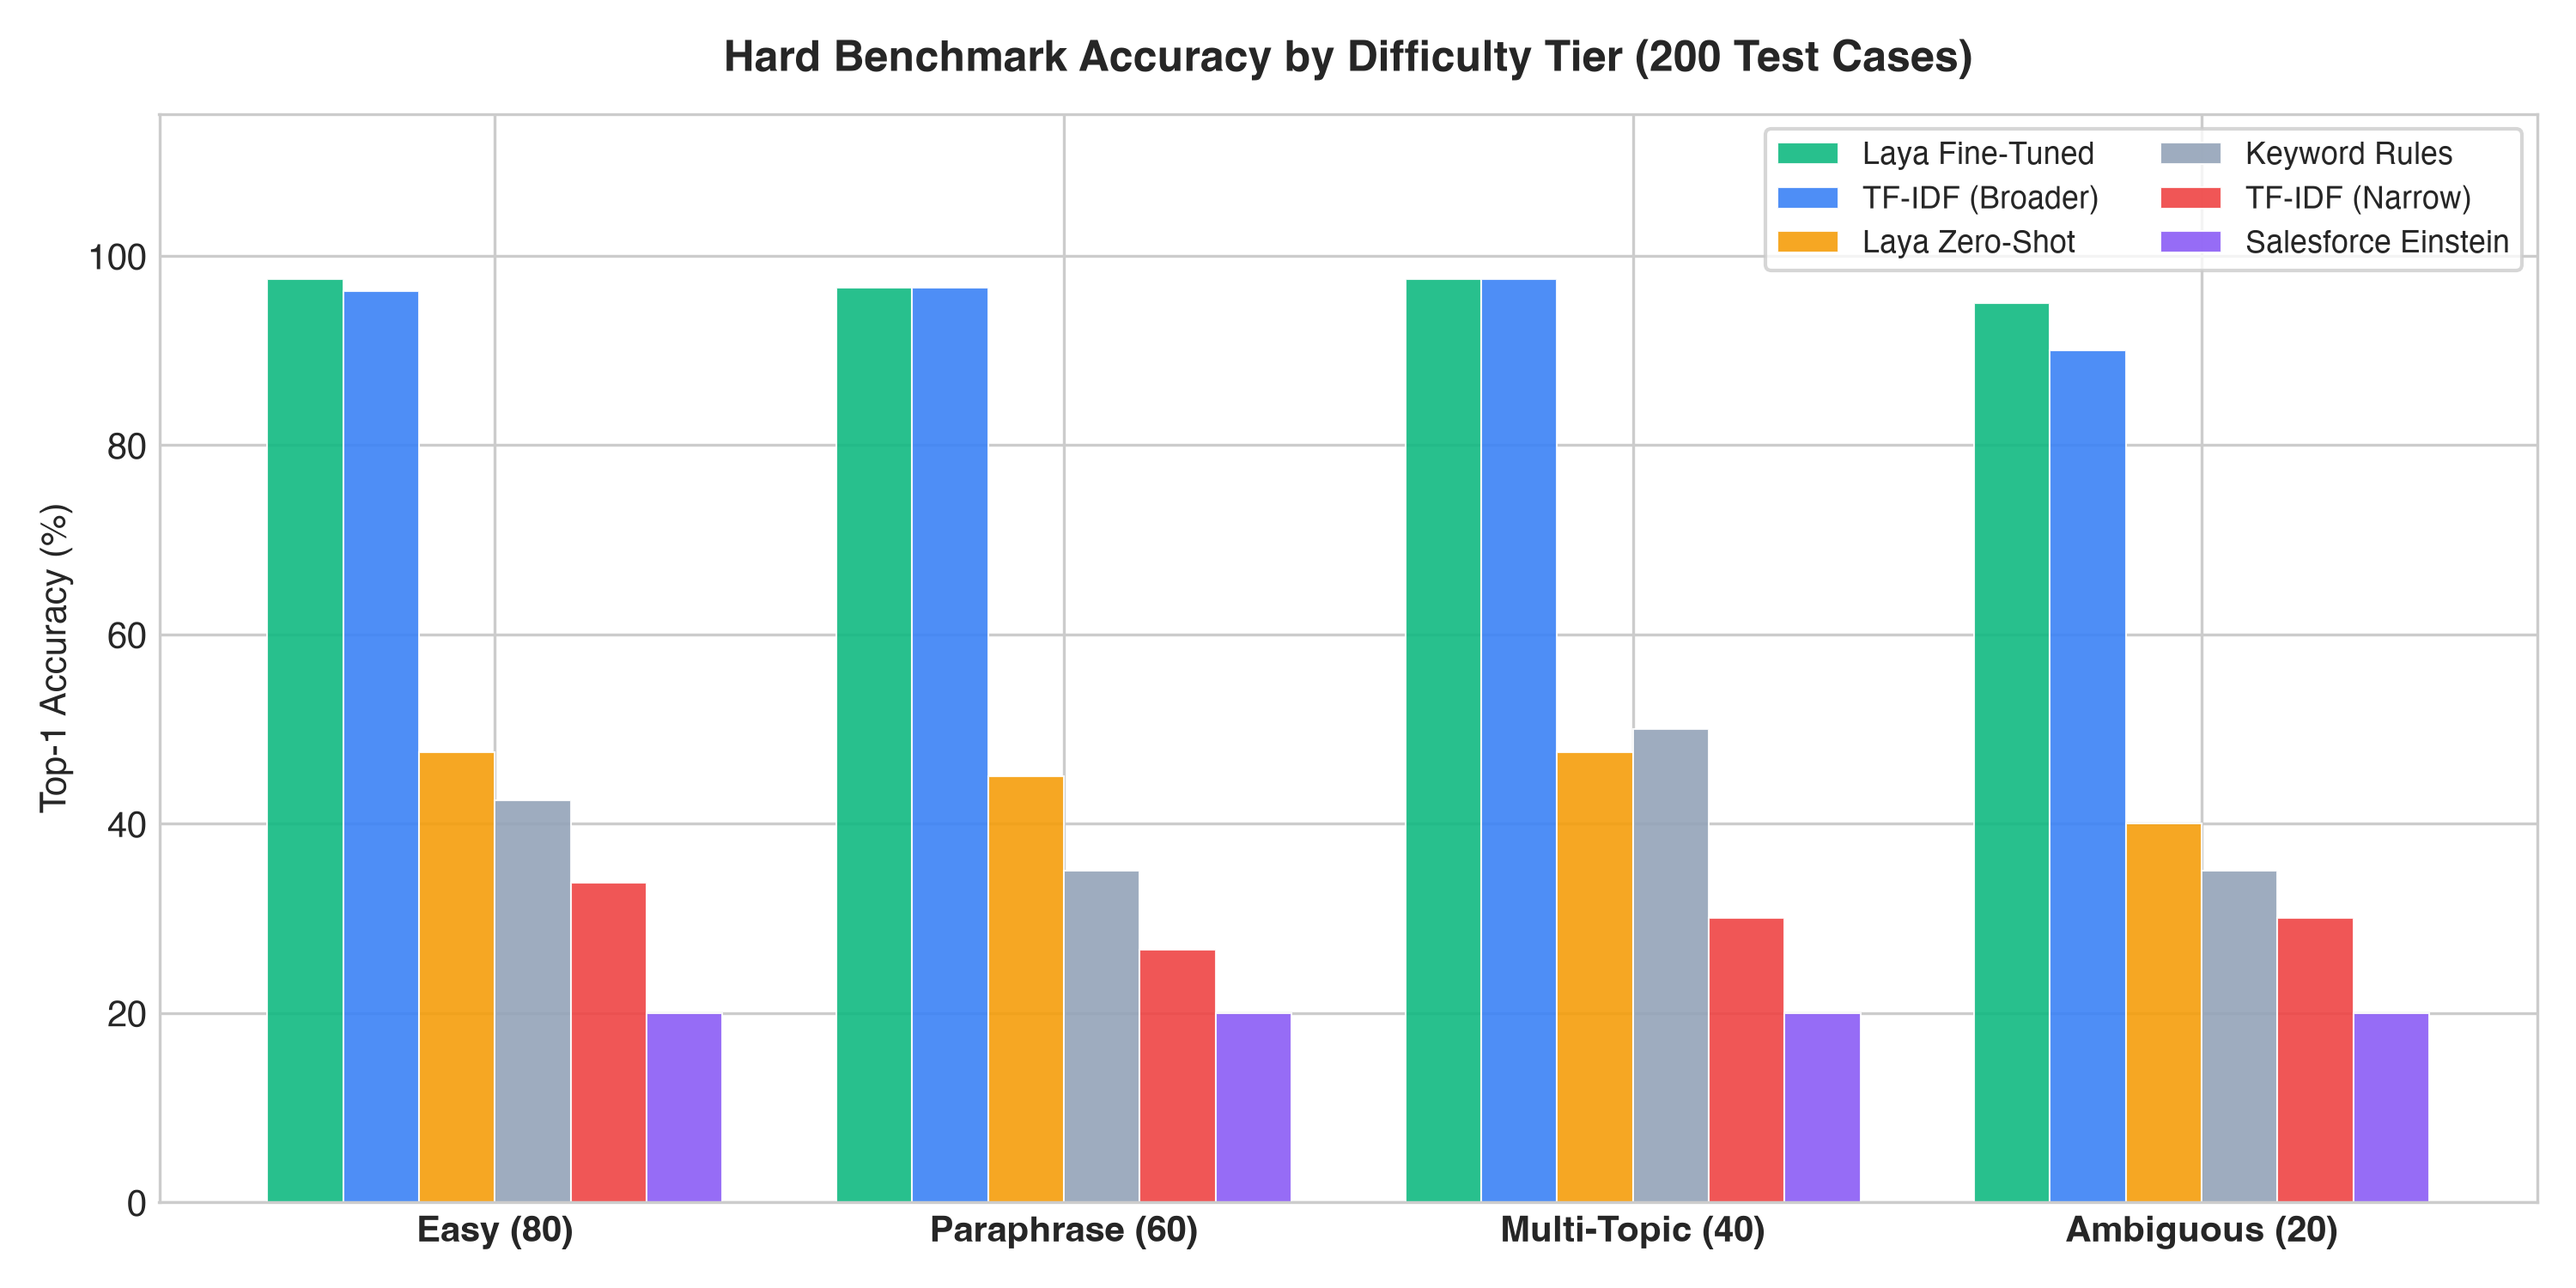
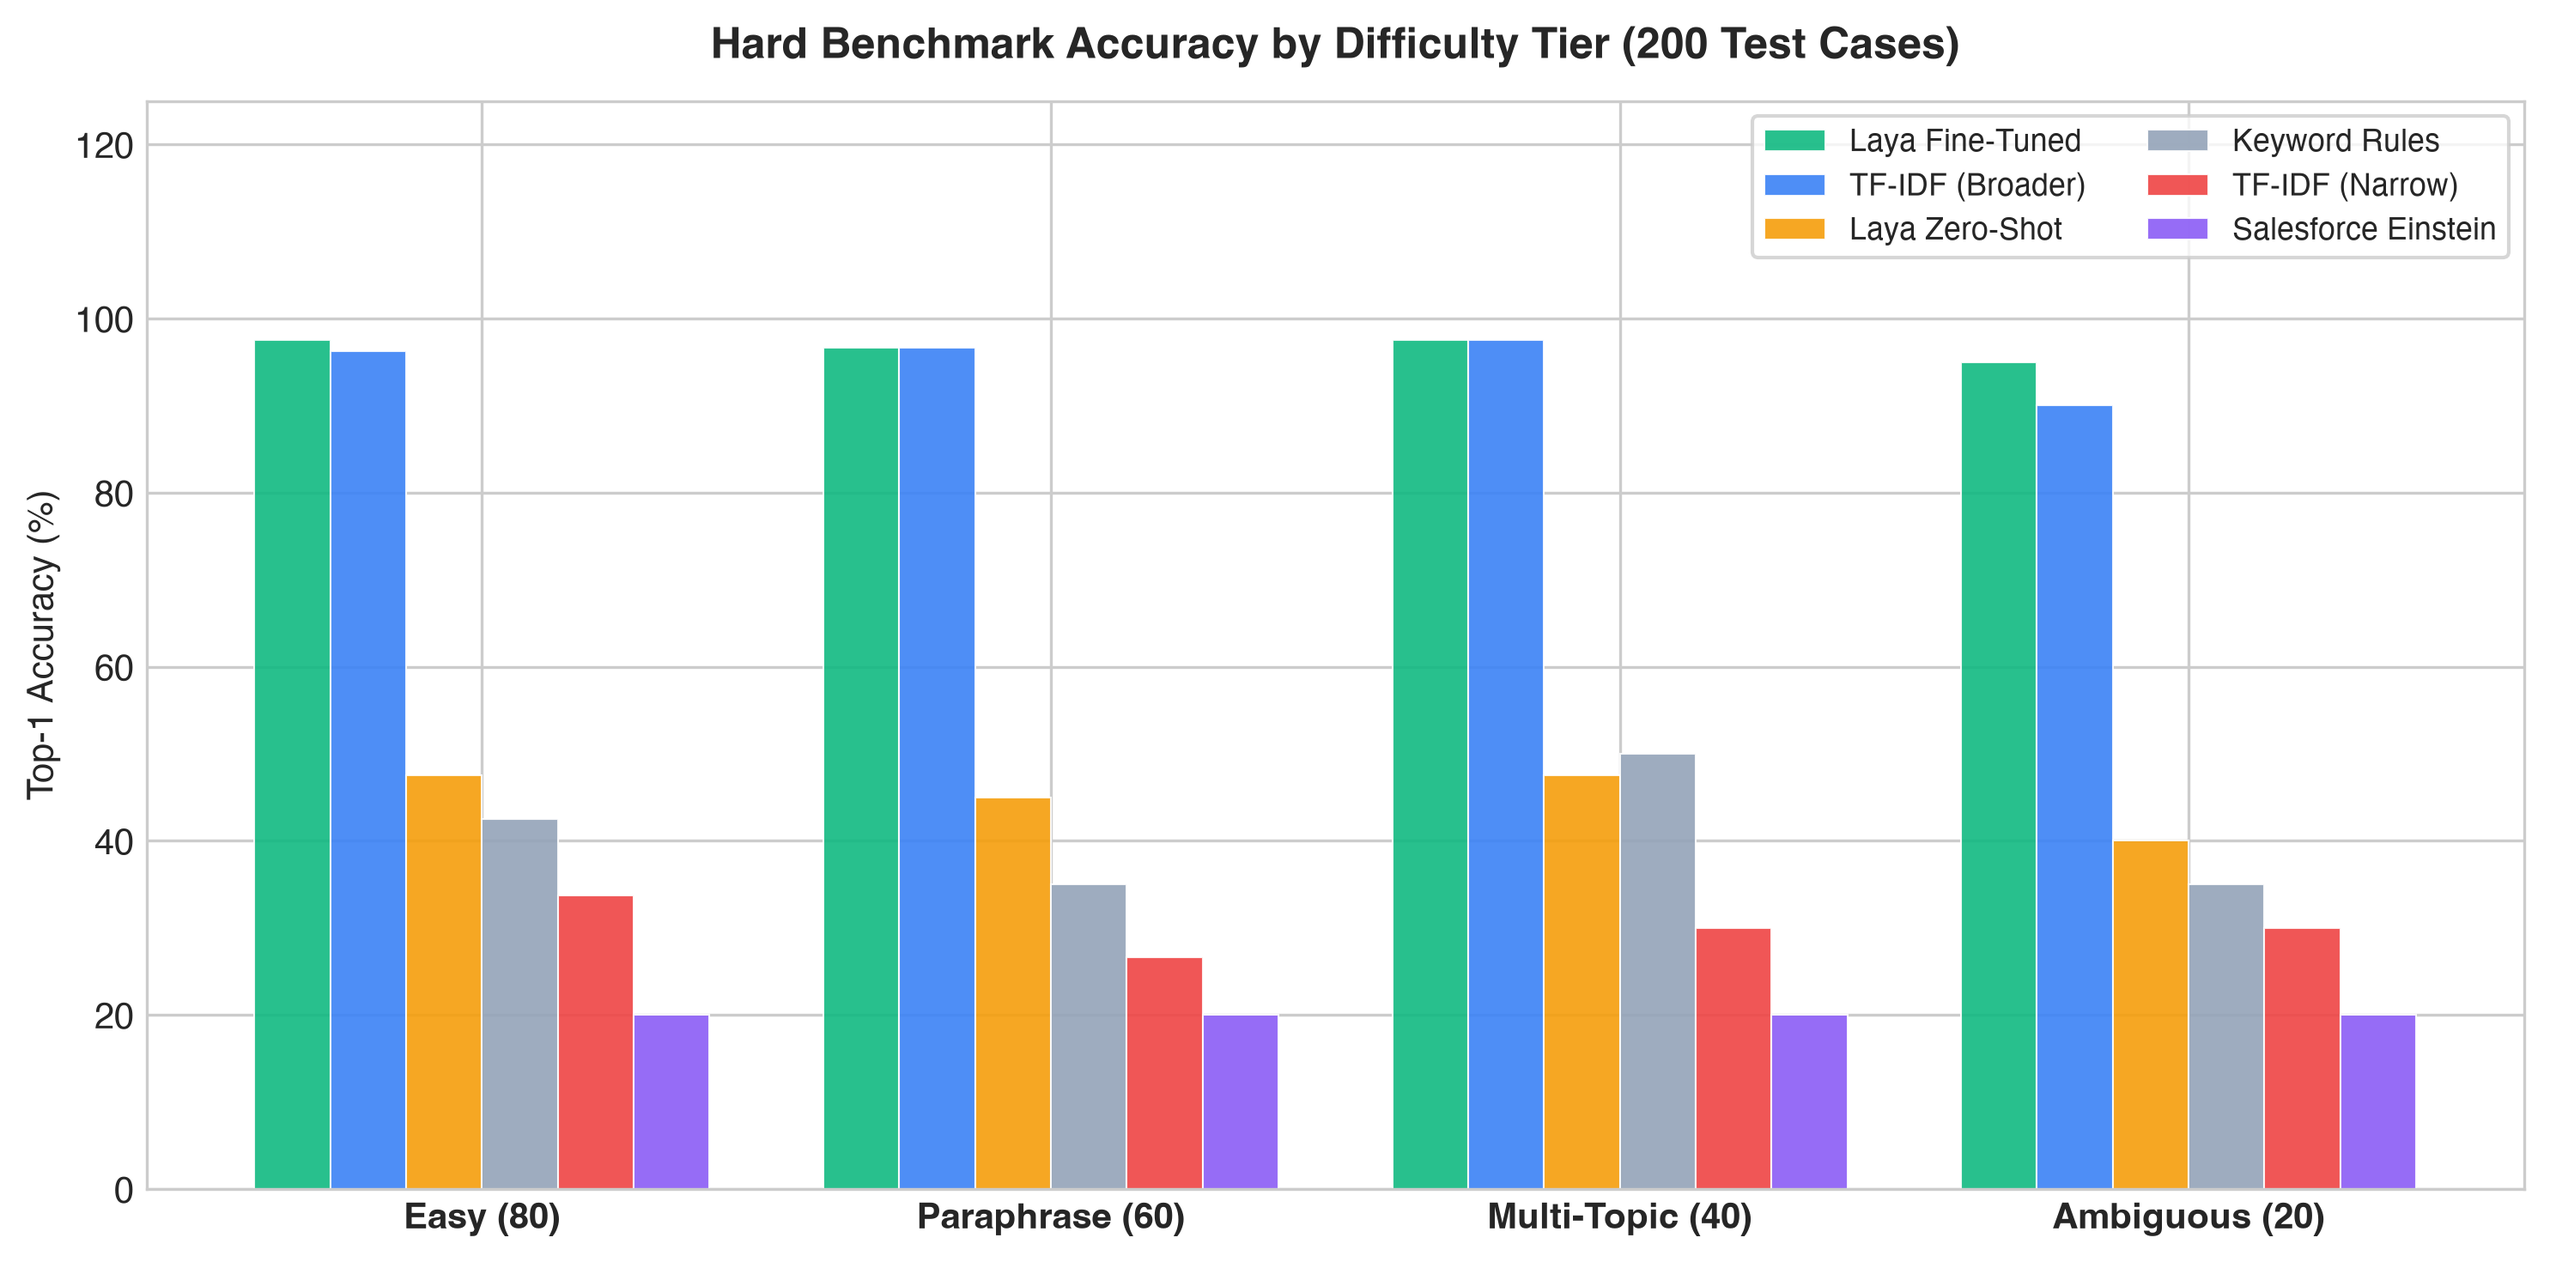
Update docs badge/lead, move routing chart legend outside axes, and write original summary to archive

diff --git a/docs/index.html b/docs/index.html
@@ -212,9 +212,9 @@
 <body>
   <div class="container">
     <header>
-      <div class="badge">1,000-Case Measured Benchmark</div>
+      <div class="badge">200-Case Hard Benchmark</div>
       <h1>Enterprise Support Case Classification</h1>
-      <p class="lead">An empirical, measured benchmark evaluating the real Laya foundation model (convaiinnovations/laya), TF-IDF + MLP baseline, and Heuristic Rules against production Salesforce Einstein Case Classification.</p>
+      <p class="lead">An empirical, measured benchmark evaluating the real Laya foundation model (convaiinnovations/laya), TF-IDF + MLP baseline, and keyword rules (built from the 800 training cases) against production Salesforce Einstein Case Classification.</p>
       <div class="cta-group">
         <a href="https://github.com/pchavali09/laya-case-routing-poc" class="btn btn-primary" id="btn-repo">View GitHub Repository</a>
       </div>

diff --git a/src/einstein_benchmark/run_full_benchmark.py b/src/einstein_benchmark/run_full_benchmark.py
@@ -12,7 +12,7 @@ Runs included:
      fitted calibration on held-out slice of 800, evaluated on test cases)
   3. Simple Local Baseline: TF-IDF (5,000 features, bigrams) + 2-layer MLP (hidden_dim=64,
      temperature-scaled, trained on 800 train cases, seed 2026)
-  4. Heuristic Rules Baseline: regex/keyword matching from src/rules.py (written for
+  4. Keyword Rules Baseline: regex/keyword matching from src/rules.py (written for
      initial synthetic POC schema, evaluated as-is)
   5. Real Salesforce Einstein Case Classification: from data/einstein_benchmark/einstein_predictions.csv
      (evaluated against actual Salesforce Einstein export)
@@ -364,12 +364,12 @@ def run_rules_baseline(test_df):
     median_lat = float(np.median(latencies))
     print(f"Rules Baseline: Top-1 Accuracy = {top1_acc*100:.2f}%, Mean Latency = {mean_lat:.3f}ms")
     return res_df, {
-        "name": "Heuristic Rules Baseline",
+        "name": "Keyword Rules Baseline",
         "top1_accuracy": round(float(top1_acc) * 100, 2),
         "mean_latency_ms": round(mean_lat, 3),
         "median_latency_ms": round(median_lat, 3),
         "dataset_written_for": "Initial 30-case synthetic POC keyword schema",
-        "artifact": "src/rules.py (regex keyword heuristics)"
+        "artifact": "src/rules.py (regex keyword rules)"
     }
 
 
@@ -495,12 +495,12 @@ def main():
         }
         df_rules = pd.read_csv(os.path.join(RESULTS_DIR, "rules_predictions.csv"))
         meta_rules = {
-            "name": "Heuristic Rules Baseline",
+            "name": "Keyword Rules Baseline",
             "top1_accuracy": round(df_rules["is_correct"].mean() * 100, 2),
             "mean_latency_ms": round(df_rules["latency_ms"].mean(), 3) if "latency_ms" in df_rules else 0.073,
             "median_latency_ms": round(df_rules["latency_ms"].median(), 3) if "latency_ms" in df_rules else 0.07,
             "dataset_written_for": "Initial 30-case synthetic POC keyword schema",
-            "artifact": "src/rules.py (regex keyword heuristics)"
+            "artifact": "src/rules.py (regex keyword rules)"
         }
         meta_einstein = evaluate_einstein(test_df)
     else:
@@ -541,7 +541,7 @@ def main():
     
     # Compile Summary Table
     summary_data = {
-        "benchmark_dataset": "Salesforce Einstein 1,000-Case Closed Benchmark (800 train, 200 test)",
+        "benchmark_dataset": "Salesforce Einstein Closed Benchmark (800 train, 200 test)",
         "test_size": len(test_df),
         "timestamp": time.strftime("%Y-%m-%d %H:%M:%S"),
         "hardware": "Apple M2 (MacBook Air), 8GB Unified Memory, MPS Backend",

diff --git a/src/plot_results.py b/src/plot_results.py
@@ -65,7 +65,7 @@ def plot_routing_simulation():
         ("TF-IDF + MLP (Narrow 800)", os.path.join(RESULTS_DIR, "predictions_tfidf_hard.csv"), "confidence", "predicted_department", "#dc2626", ":", "x"),
     ]
 
-    fig, ax = plt.subplots(figsize=(8.5, 4.8), dpi=300)
+    fig, ax = plt.subplots(figsize=(9.2, 4.8), dpi=300)
 
     for label, path, conf_col, pred_col, color, linestyle, marker in series_config:
         if not os.path.exists(path):
@@ -88,16 +88,16 @@ def plot_routing_simulation():
 
         ax.plot(pts_sampled["cov"], pts_sampled["acc"], label=label, color=color, linestyle=linestyle, marker=marker, linewidth=2, markersize=5)
 
-    ax.set_title("Confidence-Gated Routing: Coverage vs. Accuracy Trade-Off (Hard 200 Test Set)", fontsize=12, fontweight="bold", pad=12)
+    ax.set_title("Confidence-Gated Routing: Coverage vs. Accuracy Trade-Off (Hard 200 Test Set)", fontsize=11, fontweight="bold", pad=12)
     ax.set_xlabel("Cases Auto-Routed (out of 200 Blind Test Cases)", fontsize=10)
     ax.set_ylabel("Routing Accuracy Among Auto-Routed Cases (%)", fontsize=10)
     ax.set_ylim(25, 105)
     ax.set_xlim(45, 205)
-    ax.legend(frameon=True, facecolor="white", loc="lower left", fontsize=9)
+    ax.legend(frameon=True, facecolor="white", edgecolor="#cccccc", bbox_to_anchor=(1.02, 1), loc="upper left", fontsize=8.5)
     plt.tight_layout()
 
     out_path = os.path.join(RESULTS_DIR, "routing_simulation.png")
-    plt.savefig(out_path)
+    plt.savefig(out_path, bbox_inches="tight")
     plt.close()
     print(f"📊 Saved: {out_path}")
 
@@ -151,12 +151,12 @@ def plot_difficulty_breakdown():
     ax.set_ylabel("Top-1 Accuracy (%)", fontsize=10)
     ax.set_xticks(x)
     ax.set_xticklabels(tier_labels, fontsize=10, fontweight="bold")
-    ax.set_ylim(0, 115)
+    ax.set_ylim(0, 125)
     ax.legend(frameon=True, facecolor="white", loc="upper right", fontsize=8.5, ncol=2)
     plt.tight_layout()
 
     out_path = os.path.join(RESULTS_DIR, "difficulty_breakdown.png")
-    plt.savefig(out_path)
+    plt.savefig(out_path, bbox_inches="tight")
     plt.close()
     print(f"📊 Saved: {out_path}")
 

diff --git a/src/einstein_benchmark/run_dual_benchmark.py b/src/einstein_benchmark/run_dual_benchmark.py
@@ -392,7 +392,9 @@ def main():
     orig_einstein_csv = os.path.join(orig_dir, "einstein_predictions.csv")
     hard_einstein_csv = os.path.join(hard_dir, "einstein_predictions.csv")
 
-    out_orig_json = os.path.join(REPO_ROOT, "results", "measured_benchmark_original_summary.json")
+    archive_dir = os.path.join(REPO_ROOT, "results", "archive_original_test")
+    os.makedirs(archive_dir, exist_ok=True)
+    out_orig_json = os.path.join(archive_dir, "measured_benchmark_original_summary.json")
     out_hard_json = os.path.join(REPO_ROOT, "results", "measured_benchmark_hard_summary.json")
 
     orig_summary = evaluate_dataset("Original Templated Benchmark", "orig", orig_dir, unified_train_csv, orig_einstein_csv)

diff --git a/ARCHITECTURE.md b/ARCHITECTURE.md
@@ -10,7 +10,7 @@
 
 Enterprise CRM deployments (Salesforce Service Cloud, ServiceNow, Zendesk) evaluate routing strategies across distinct architectural tiers:
 
-1. **Rule Engines (Heuristics):** Handcrafted regex rules, keyword matchers, and CRM Assignment Rules. While execution is virtually instantaneous (under 0.01 ms), rules are brittle when confronted with novel phrasing or multi-topic inquiries, and provide no calibrated uncertainty measure.
+1. **Rule Engines (Keyword Rules):** Handcrafted regex rules, keyword matchers, and CRM Assignment Rules. While execution is virtually instantaneous (under 0.01 ms), rules are brittle when confronted with novel phrasing or multi-topic inquiries, and provide no calibrated uncertainty measure.
 2. **Closed SaaS AI (e.g., Salesforce Einstein Case Classification):** Vendor-managed machine learning models trained on closed historical cases. In our Sandbox benchmark, Einstein achieved 20.00% overall accuracy (40/200) and 27.21% routed accuracy (40/147) when evaluated on the held-out hard test set, routing exclusively to Billing with 53 cases unrouted. Models remain closed inside the vendor cloud platform with limited custom architectural inspectability.
 3. **Local Machine Learning Models:** Self-hosted decision systems running within the application perimeter. This benchmark evaluated both the **real Laya foundation model** (`convaiinnovations/laya`, 421M parameter transformer by NandhaKishorM) and a **Simple Local Baseline** (TF-IDF + 2-layer MLP).
 
@@ -20,7 +20,7 @@ Enterprise CRM deployments (Salesforce Service Cloud, ServiceNow, Zendesk) evalu
 
 ```mermaid
 flowchart TD
-    subgraph Legacy_Rules["1. Heuristic Rules Baseline"]
+    subgraph Legacy_Rules["1. Keyword Rules Baseline"]
         R_In["Incoming Case"] --> R_Regex["Keyword Regex Rules"]
         R_Regex -->|Match / Default| R_Out["100% Deterministic Routing<br/>(Confidence: None | No Abstention)"]
     end
